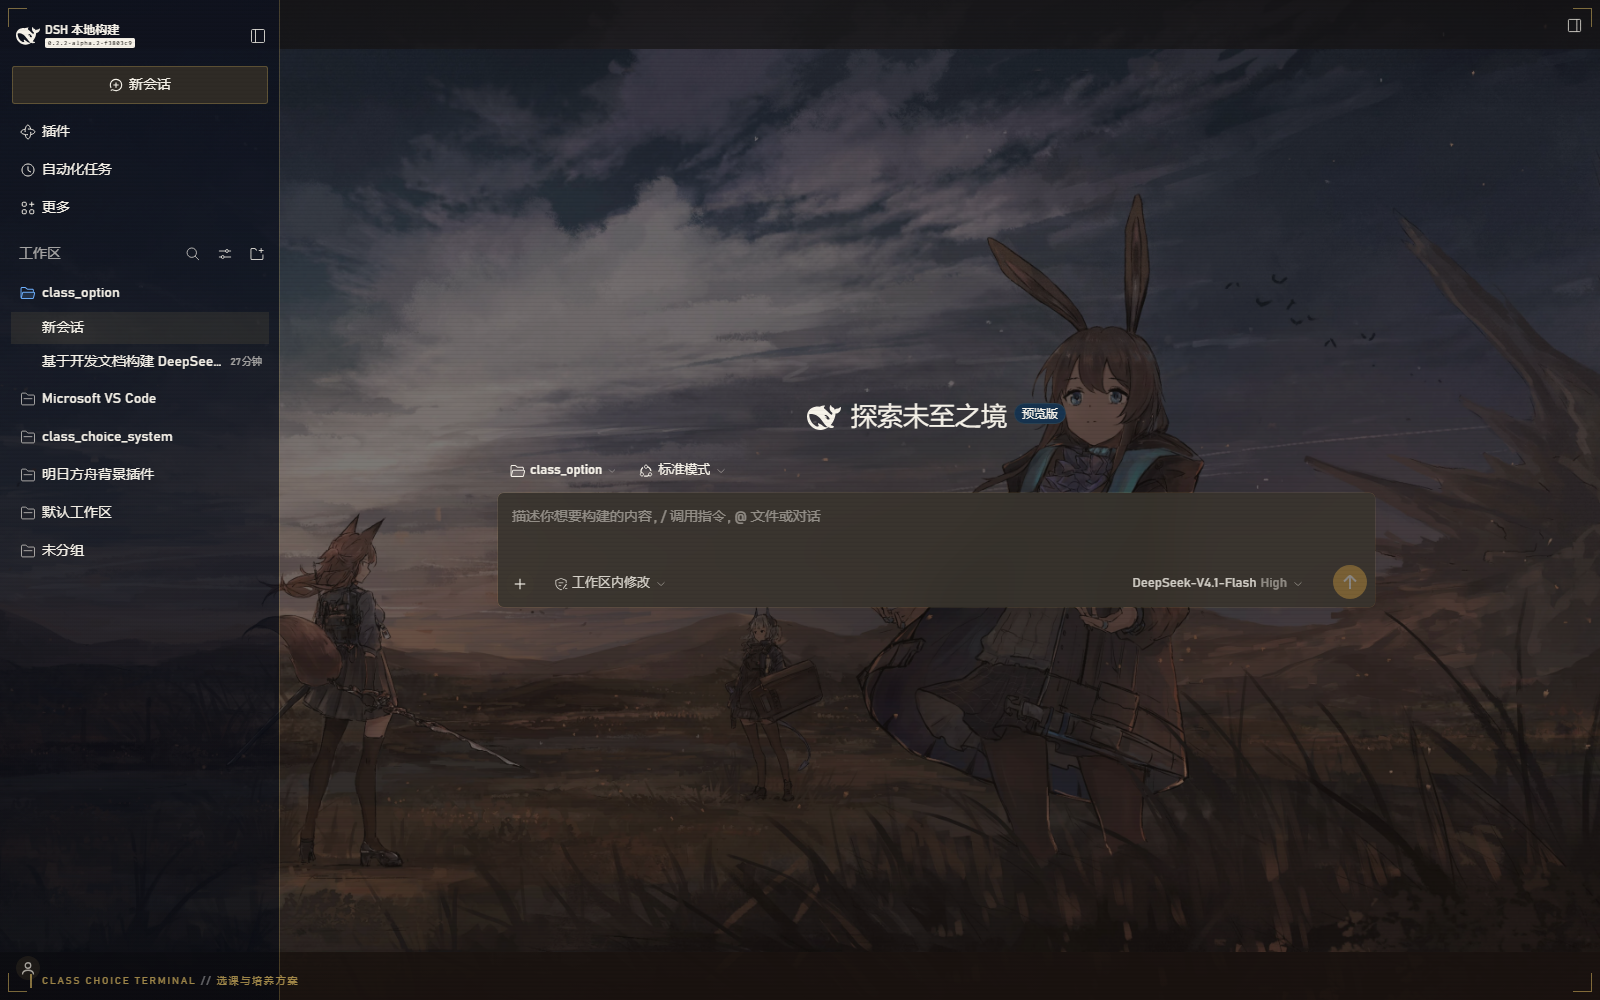
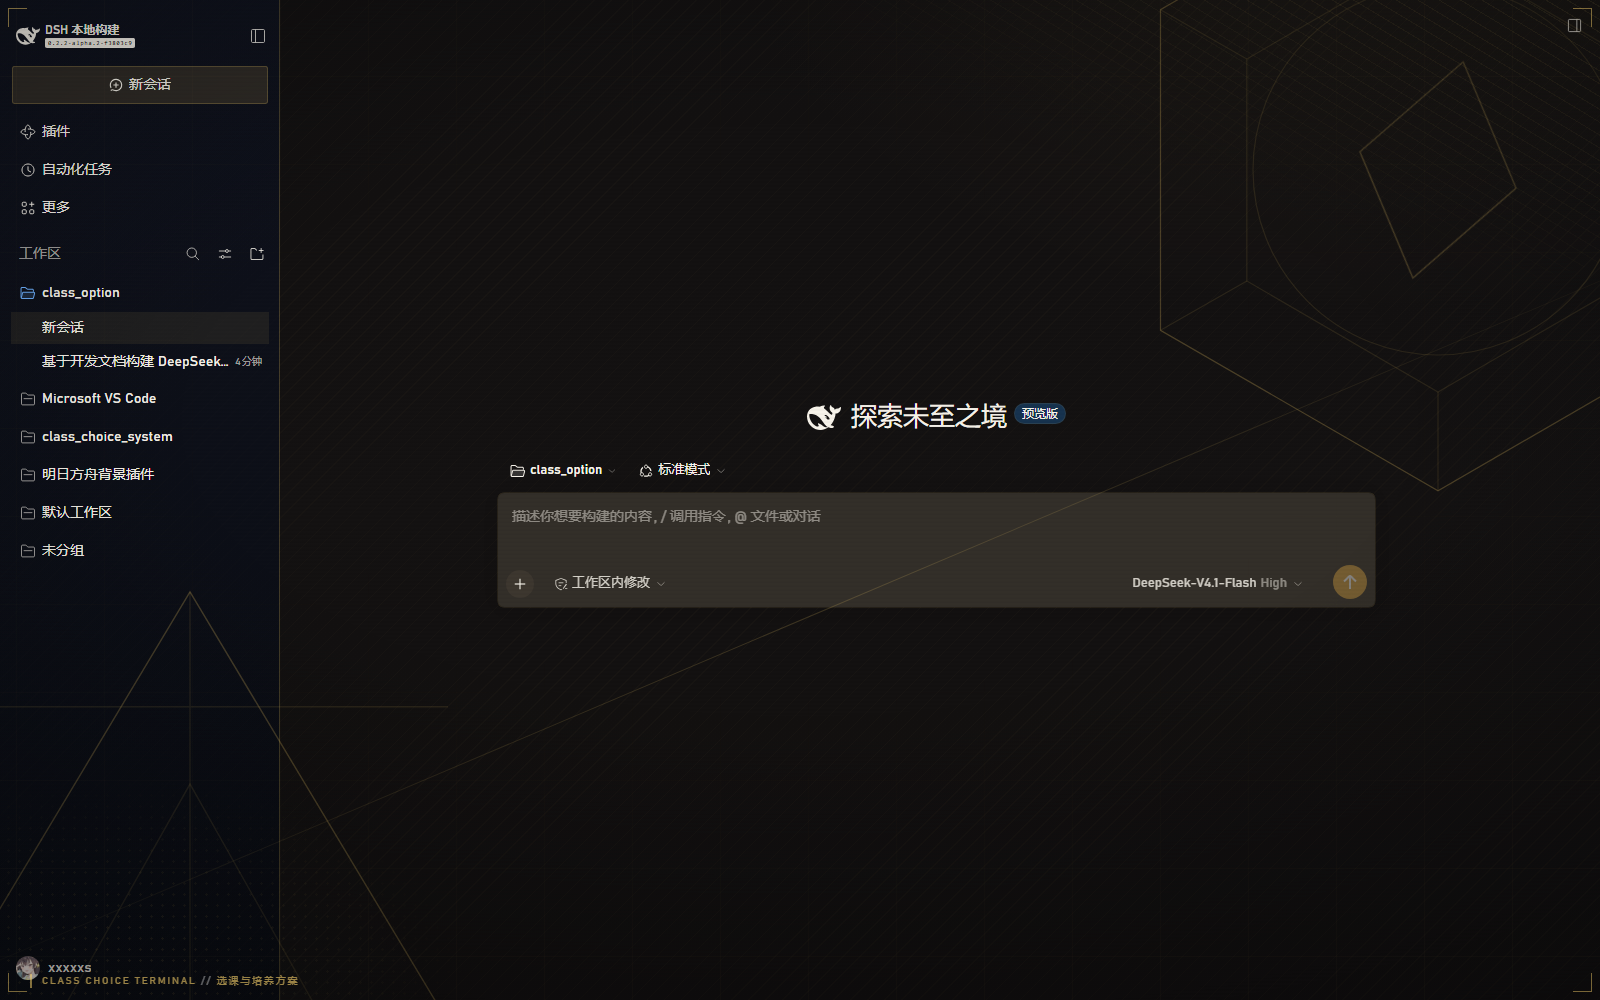
feat(theme): replace artwork backdrop with drawn geometric composition
- body paints a graphite field with masked 88px grid, 45-degree hatch wedge,
  halftone dots, a diagonal gold rule, and a radial vignette
- two inline-SVG polygons (hexagon with slow counter-rotating diamond, corner
  caliper triangle) frame the viewport
- artwork layers from community background plugins are suppressed so the
  geometry is not covered; documented opt-out keeps the photo path
- sidebar fill raised to near-opaque for text contrast over the new backdrop

diff --git a/plugins/dsh-arknights-theme/src/theme.css b/plugins/dsh-arknights-theme/src/theme.css
@@ -128,7 +128,7 @@ html:root body[data-ds-dark-theme] {
   --dsw-alias-settings-card-stroke: rgba(255, 215, 110, 0.14) !important;
 
   /* Specific slots the shipped shell and community skins both write. */
-  --dsw-specific-sidebar-fill: linear-gradient(180deg, rgba(22, 19, 14, 0.82) 0%, rgba(12, 11, 9, 0.62) 100%) !important;
+  --dsw-specific-sidebar-fill: linear-gradient(180deg, rgba(20, 18, 14, 0.94) 0%, rgba(10, 9, 8, 0.86) 100%) !important;
   --dsw-specific-sidebar-nav-item-active: hsla(34, 12%, 22%, 0.9) !important;
   --dsw-specific-sidebar-nav-item-hover: hsla(34, 12%, 18%, 0.82) !important;
   --dsw-specific-input-major: hsla(34, 12%, 20%, 0.86) !important;
@@ -175,6 +175,140 @@ html:root body[data-ds-dark-theme] {
   --dsw-radius-lg: 4px !important;
   --dsw-radius-xl: 6px !important;
   --dsw-radius-panel: 8px !important;
+}
+
+/* --- Geometric backdrop -------------------------------------------------
+ * The skin draws its own backdrop instead of relying on artwork: a dark
+ * graphite field, a masked technical grid, a hatch wedge, halftone, and two
+ * outlined polygons that sit mostly outside the viewport. Everything here is
+ * CSS/SVG geometry, so it costs no image request and scales to any viewport.
+ */
+
+html:root body {
+  background-color: #06070a !important;
+  background-image:
+    radial-gradient(1100px 760px at 86% -16%, rgba(255, 215, 110, 0.12), transparent 62%),
+    radial-gradient(900px 680px at -8% 108%, rgba(84, 124, 186, 0.12), transparent 64%),
+    repeating-linear-gradient(135deg, rgba(255, 215, 110, 0.045) 0 1px, transparent 1px 12px),
+    linear-gradient(180deg, #080a0f 0%, #0a0c11 52%, #06070a 100%) !important;
+  background-attachment: fixed !important;
+}
+
+/* Community artwork layers are suppressed: this skin's backdrop is drawn
+ * geometry, not photography. Hiding the layers also drops their image fetch. */
+[data-dab-wp],
+[data-dab-wp-layer] { display: none !important; }
+
+/* The artwork plugin tints the page through a fixed aurora pseudo-element. */
+html:root body::before { content: none !important; }
+
+.ak-geo {
+  position: fixed;
+  inset: 0;
+  z-index: 2147480000;
+  pointer-events: none;
+  overflow: hidden;
+}
+
+.ak-geo__vignette {
+  position: absolute;
+  inset: 0;
+  z-index: 1;
+  background: radial-gradient(
+    120% 92% at 50% 42%,
+    rgba(4, 5, 7, 0) 32%,
+    rgba(4, 5, 7, 0.66) 100%
+  );
+}
+
+.ak-geo__grid {
+  position: absolute;
+  inset: -10%;
+  background-image:
+    linear-gradient(rgba(255, 215, 110, 0.05) 1px, transparent 1px),
+    linear-gradient(90deg, rgba(255, 215, 110, 0.05) 1px, transparent 1px);
+  background-size: 88px 88px;
+  mask-image: radial-gradient(85% 70% at 50% 45%, transparent 24%, #000 84%);
+  opacity: 0.8;
+}
+
+.ak-geo__hatch {
+  position: absolute;
+  top: -14vh;
+  right: -12vw;
+  width: 56vw;
+  height: 46vh;
+  transform: rotate(-14deg);
+  background-image: repeating-linear-gradient(
+    45deg,
+    rgba(255, 215, 110, 0.16) 0 1px,
+    transparent 1px 11px
+  );
+  mask-image: linear-gradient(215deg, #000 0%, transparent 66%);
+}
+
+.ak-geo__dots {
+  position: absolute;
+  left: -6vw;
+  bottom: -10vh;
+  width: 46vw;
+  height: 42vh;
+  background-image: radial-gradient(circle, rgba(255, 215, 110, 0.2) 1px, transparent 1.4px);
+  background-size: 11px 11px;
+  mask-image: radial-gradient(70% 70% at 30% 70%, #000 0%, transparent 72%);
+  opacity: 0.55;
+}
+
+.ak-geo__rule {
+  position: absolute;
+  top: 62%;
+  left: -20vw;
+  width: 140vw;
+  height: 1px;
+  transform: rotate(-23deg);
+  background: linear-gradient(90deg, transparent, rgba(255, 215, 110, 0.18), transparent);
+}
+
+.ak-geo__mark {
+  position: absolute;
+}
+
+.ak-geo__mark--tr {
+  top: -20vh;
+  right: -13vw;
+  width: 74vh;
+  height: 74vh;
+}
+
+.ak-geo__mark--bl {
+  bottom: -28vh;
+  left: -15vw;
+  width: 86vh;
+  height: 86vh;
+}
+
+.ak-geo__mark svg {
+  display: block;
+  width: 100%;
+  height: 100%;
+}
+
+.ak-geo__stroke {
+  fill: none;
+  stroke: rgba(255, 215, 110, 0.24);
+  stroke-width: 1;
+  vector-effect: non-scaling-stroke;
+}
+
+.ak-geo__stroke--soft { stroke: rgba(255, 215, 110, 0.1); }
+
+.ak-geo__spin {
+  transform-origin: 50% 50%;
+  animation: ak-geo-spin 160s linear infinite;
+}
+
+@keyframes ak-geo-spin {
+  to { transform: rotate(360deg); }
 }
 
 /* Amber text selection. */
@@ -253,4 +387,5 @@ html:root body::after {
 
 @media (prefers-reduced-motion: reduce) {
   html:root body::after { animation: none; }
+  .ak-geo__spin { animation: none; }
 }

diff --git a/plugins/dsh-arknights-theme/src/index.ts b/plugins/dsh-arknights-theme/src/index.ts
@@ -51,6 +51,40 @@ const splashCss = assertNoDocumentTags(readFileSync(join(HERE, 'splash.css'), 'u
 const splashHtml = assertNoDocumentTags(readFileSync(join(HERE, 'splash.html'), 'utf8'), 'splash.html')
 const splashScript = assertNoDocumentTags(readFileSync(join(HERE, 'splash.js'), 'utf8'), 'splash.js')
 
+/**
+ * Backdrop geometry: a masked technical grid, a hatch wedge, halftone, a
+ * diagonal rule, and two outlined polygons. Everything is CSS or inline SVG so
+ * the skin never fetches an image asset.
+ */
+const GEO_HTML = [
+  '<div class="ak-geo" aria-hidden="true">',
+  '<div class="ak-geo__vignette"></div>',
+  '<div class="ak-geo__grid"></div>',
+  '<div class="ak-geo__hatch"></div>',
+  '<div class="ak-geo__dots"></div>',
+  '<div class="ak-geo__rule"></div>',
+  '<div class="ak-geo__mark ak-geo__mark--tr"><svg viewBox="0 0 600 600">',
+  '<g class="ak-geo__stroke">',
+  '<polygon points="300,40 525,170 525,430 300,560 75,430 75,170"></polygon>',
+  '<polygon class="ak-geo__stroke--soft" points="300,120 455,210 455,390 300,480 145,390 145,210"></polygon>',
+  '<path class="ak-geo__stroke--soft" d="M300 40V120M300 480V560M75 170L145 210M455 390L525 430M525 170L455 210M145 390L75 430"></path>',
+  '<circle class="ak-geo__stroke--soft" cx="300" cy="300" r="150"></circle>',
+  '</g>',
+  '<g class="ak-geo__stroke ak-geo__spin">',
+  '<path d="M300 210 L365 300 L300 390 L235 300 Z"></path>',
+  '</g>',
+  '</svg></div>',
+  '<div class="ak-geo__mark ak-geo__mark--bl"><svg viewBox="0 0 600 600">',
+  '<g class="ak-geo__stroke">',
+  '<path d="M60 520 L300 120 L540 520"></path>',
+  '<path class="ak-geo__stroke--soft" d="M150 520 L300 254 L450 520"></path>',
+  '<path d="M20 520H580"></path>',
+  '<path class="ak-geo__stroke--soft" d="M300 120V560M120 200H480"></path>',
+  '</g>',
+  '</svg></div>',
+  '</div>',
+].join('')
+
 const HUD_HTML = [
   '<div class="ak-hud" aria-hidden="true">',
   '<span class="ak-hud__corner ak-hud__corner--tl"></span>',
@@ -62,13 +96,14 @@ const HUD_HTML = [
 ].join('')
 
 /**
- * Register the skin, boot overlay, and HUD rows on every index render.
+ * Register the skin, boot overlay, backdrop, and HUD rows on every index render.
  * @param ctx - Plugin context supplied by the loader.
  */
 export function apply(ctx: ThemeContext): void {
   ctx.on('webserver/index-inject', (rows) => {
     rows.push({ kind: 'style', text: themeCss })
     rows.push({ kind: 'style', text: splashCss })
+    rows.push({ kind: 'html', placement: 'body', html: GEO_HTML })
     rows.push({ kind: 'html', placement: 'body', html: splashHtml })
     rows.push({ kind: 'script', placement: 'body', text: splashScript })
     rows.push({ kind: 'html', placement: 'body', html: HUD_HTML })

diff --git a/plugins/dsh-arknights-theme/README.md b/plugins/dsh-arknights-theme/README.md
@@ -41,6 +41,31 @@
 2. **token 覆写要用 `html:root body ... !important`。** 运行时主题表在插件之后注入，社区背景插件同样用 `!important` 覆写同一批变量，权重不够就会被覆盖。
 3. **开场动画样式必须留在 `splash.css`。** 注入的 HTML 片段里如果内嵌 `<style>`，解析器会把它重定位到 head，覆盖层会被拆散。
 
+## 几何背景
+
+背景不是图片，而是画出来的：`GEO_HTML` + `theme.css` 的 `.ak-geo*` 规则组成六层——
+
+| 层 | 做法 |
+| --- | --- |
+| 暗角 | `radial-gradient` 压住四周，中心留亮 |
+| 技术网格 | 88px 双向细线，径向遮罩只在边缘显形 |
+| 斜切排线 | 右上角 56vw 区块，45° 排线 + 线性遮罩 |
+| 网点 | 左下角 11px 圆点阵列，径向遮罩 |
+| 斜向金线 | 140vw 长线，`rotate(-23deg)` 贯穿画面 |
+| 多边形 | 右上六边形（含 160s 缓慢自转的菱形）与左下三角标尺，内联 SVG 描边 |
+
+全部由 CSS 渐变或内联 SVG 生成，没有任何图片请求；`prefers-reduced-motion` 下停止自转。
+
 ## 与背景插件共存
 
-如果 profile 里已有背景类插件（例如在 body 上铺一张立绘），本皮肤的半透明表面会保留底图，只把色调统一到暖色系；在裸装 DSH 上，同一组数值叠加成接近纯黑的终端底色，不需要额外配置。
+profile 里如果装过立绘类背景插件（会往 body 铺图片、并注入 `[data-dab-wp*]` 图层），本皮肤默认**抑制这些图层**，只显示自己的几何图面——否则立绘会盖住网格与多边形。
+
+需要恢复立绘时，删掉 `theme.css` 里这三段即可：
+
+```css
+html:root body { background-image: ... !important; }
+[data-dab-wp], [data-dab-wp-layer] { display: none !important; }
+html:root body::before { content: none !important; }
+```
+
+在裸装 DSH 上无需任何配置，同一组数值直接呈现为深色几何终端。

diff --git a/README.md b/README.md
@@ -52,10 +52,13 @@ pnpm dsh --profile web --patch <本仓库>/profile/class-choice.overlay.yml --no
 
 ## 插件一：明日方舟风格界面（dsh-arknights-theme）
 
-- **调色板**：暖石墨底 + 琥珀金强调色，覆盖 DSH 的 `--dsw-alias-*` 语义 token；半透明表面让底图（如果 profile 里有背景插件）透出。
+- **调色板**：暖石墨底 + 琥珀金强调色，覆盖 DSH 的 `--dsw-alias-*` 语义 token；表面半透明，让几何背景透出层次。
+- **几何背景**：纯 CSS / 内联 SVG 画出的技术图面——被遮罩的 88px 网格、右上斜切排线、左下网点、一条贯穿的斜向金线、右上六边形与缓慢自转的菱形、左下三角标尺；外加径向暗角压住四周。不请求任何图片资源，任意视口自适应。
 - **开场动画**：六边形徽标描边 → 标题遮罩展开 → 终端自检日志与进度条 → 上收式揭幕。点击 / 按键可跳过；`prefers-reduced-motion` 下自动退化为静默淡出；4.6 秒故障保护，即使脚本报错也不会锁死界面。
 - **常驻 HUD**：四角细金边、左下角 `CLASS CHOICE TERMINAL // 选课与培养方案` 状态条、极轻扫描线。
 - **无构建产物**：插件在 `apply()` 时读取本地 `theme.css` / `splash.css` / `splash.html` / `splash.js`，通过 `webserver/index-inject` 推送 `style` / `html` / `script` 行，因此不需要打包客户端 bundle，也不依赖 React。
+
+如果 profile 里装过立绘类背景插件，本皮肤会隐藏它的图片图层（`[data-dab-wp*]` 与 body 上的图片背景），只保留自己的几何图面；需要恢复立绘时删掉 `theme.css` 里对应的三行抑制规则即可。
 
 实现约束（改样式前请先读）：
 
